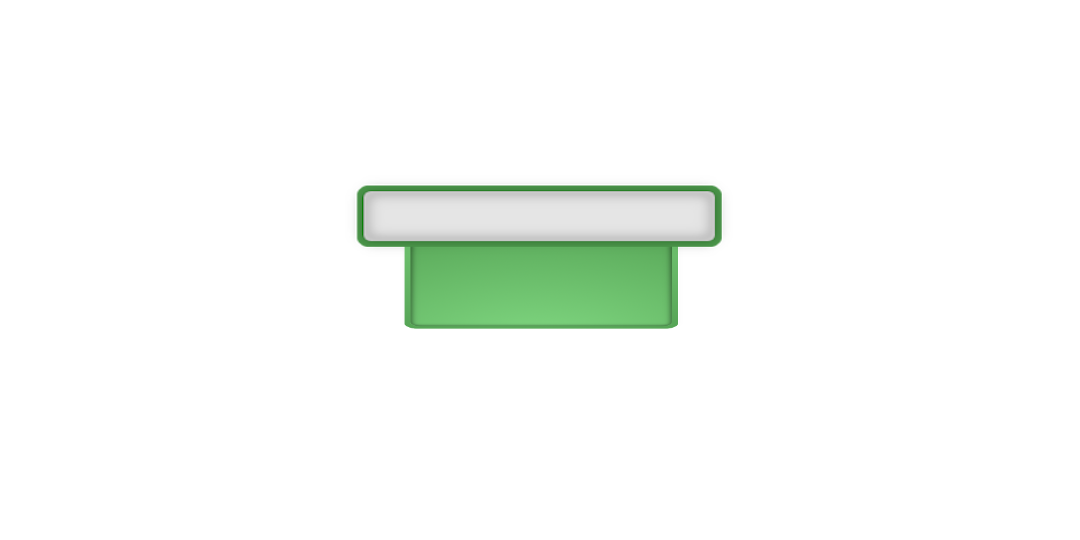
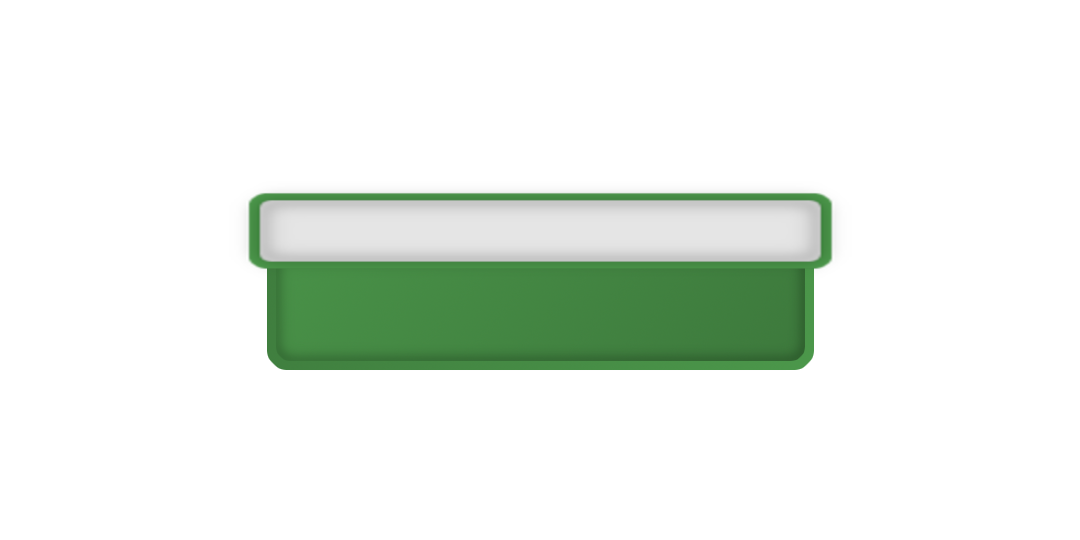
[mainmenu] working on messagebox 1/n

Changed region(s): [[0.2139, 0.3259, 0.7944, 0.7111]]

diff --git a/Client/src/states/mainMenuState.py b/Client/src/states/mainMenuState.py
@@ -10,38 +10,35 @@ class UIAnimState(Enum):
     RegisterPanelSlideIn = 4
     RegisterPanelSlideOut = 5
     RegisterPanelVisible = 6
+    MessageBoxShowed = 7
 
 class MainMenuState(State):
     def __init__(self, context, state_manager):
         super().__init__(context,state_manager)
         self._init_state_content()
         self._init_widgets()
+        self._init_msg_box()
         self.bInputEnabled = False
         self.bLogoAnimEnabled = False
         self.bLogoAnimGoingDown = True
         self.UIAnimState = UIAnimState.LoginPanelSlideIn
 
     def _init_resources(self):
-        self.context.texture_manager.load_resource(TextureID.BackgroundLayer0,
-                                                   "res/img/background_layer0.png", Texture)
-        self.context.texture_manager.load_resource(TextureID.BackgroundLayer1,
-                                                   "res/img/background_layer1.png", Texture)
-        self.context.texture_manager.load_resource(TextureID.LoginPanel,
-                                                   "res/img/login_panel.png", Texture)
-        self.context.texture_manager.load_resource(TextureID.RegisterPanel,
-                                                   "res/img/register_panel.png", Texture)
-        self.context.texture_manager.load_resource(TextureID.Logo,
-                                                   "res/img/logo.png", Texture)
-        self.context.texture_manager.load_resource(TextureID.Clouds,
-                                                   "res/img/clouds.png", Texture)
-        self.context.texture_manager.load_resource(TextureID.ButtonSignIn,
-                                                   "res/img/button_signin.png", Texture)
-        self.context.texture_manager.load_resource(TextureID.ButtonSignUp,
-                                                   "res/img/button_signup.png", Texture)
-        self.context.texture_manager.load_resource(TextureID.ButtonBack,
-                                                   "res/img/button_back.png", Texture)
-        self.context.texture_manager.load_resource(TextureID.ButtonRegister,
-                                                   "res/img/button_register.png", Texture)
+        textures_to_init={
+            TextureID.BackgroundLayer0 : "res/img/background_layer0.png",
+            TextureID.BackgroundLayer1 : "res/img/background_layer1.png",
+            TextureID.LoginPanel : "res/img/login_panel.png",
+            TextureID.RegisterPanel : "res/img/register_panel.png",
+            TextureID.Logo : "res/img/logo.png",
+            TextureID.Clouds : "res/img/clouds.png",
+            TextureID.ButtonSignIn : "res/img/button_signin.png",
+            TextureID.ButtonSignUp : "res/img/button_signup.png",
+            TextureID.ButtonBack : "res/img/button_back.png",
+            TextureID.ButtonRegister : "res/img/button_register.png",
+            TextureID.MessageBox : "res/img/info_panel.png"
+        }
+        for key in textures_to_init:
+            self.context.texture_manager.load_resource(key,textures_to_init[key], Texture)
 
     def _init_widgets(self):
         texture_manager = self.state_manager.context.texture_manager
@@ -91,6 +88,19 @@ class MainMenuState(State):
         # buttons callbacks
         self.widget_manager.get_widget("ButtonBack").set_callback(self._back_onclick)
 
+    def _init_msg_box(self):
+        texture_manager = self.state_manager.context.texture_manager
+        self.msgPanel = Sprite(texture_manager.get_resource(TextureID.MessageBox),
+                               position=Vec2(0,-25),
+                               origin=Origin.TOP_LEFT)
+        self.bMsgPanelActive = False
+
+    def _show_msg_box(self,message, button):
+        pass
+
+    def _hide_msg_box(self):
+        pass
+
     #button onclick handlers
     def _sign_in_onclick(self):
         print("sign_in_")
@@ -121,18 +131,21 @@ class MainMenuState(State):
         self.login_panel_init_pos = self.register_panel_init_pos = self.login_panel.position.y
 
     def _on_render(self) -> None:
+        window = self.context.window
         #background
-        self.backgroundLayer0.draw(self.context.window)
-        self.cloudsPool[0].draw(self.context.window)
-        self.cloudsPool[1].draw(self.context.window)
-        self.backgroundLayer1.draw(self.context.window)
+        self.backgroundLayer0.draw(window)
+        self.cloudsPool[0].draw(window)
+        self.cloudsPool[1].draw(window)
+        self.backgroundLayer1.draw(window)
         #panels
-        self.login_panel.draw(self.context.window)
-        self.register_panel.draw(self.context.window)
+        self.login_panel.draw(window)
+        self.register_panel.draw(window)
         #logo
-        self.logo.draw(self.context.window)
+        self.logo.draw(window)
         #widgets
-        self.widget_manager.draw_widgets(self.context.window)
+        self.widget_manager.draw_widgets(window)
+        #message box
+        self.msgPanel.draw(window)
 
     def _on_event(self, events: List[pygame.event.Event]) -> None:
         if self.UIAnimState == UIAnimState.LoginPanelVisible:

diff --git a/Client/src/core/widgets/widgetManager.py b/Client/src/core/widgets/widgetManager.py
@@ -12,6 +12,11 @@ class WidgetManager:
         self._widgetsHolder.add(widget)
         self._insert_widget(name,widget)
 
+    def remove_widget(self, name: str):
+        widget_to_remove = self._widgetsDict[name]
+        self._widgetsHolder.remove(widget_to_remove)
+        self._widgetsDict.pop(name)
+
     def get_widget(self, name: str) -> Widget:
         assert (name in self._widgetsDict)
         return self._widgetsDict[name]

diff --git a/Client/src/core/resources/resourceManager.py b/Client/src/core/resources/resourceManager.py
@@ -20,6 +20,7 @@ class TextureID(Enum):
     InfoPanel = 12
     RegisterPanel = 13
     ButtonBack = 14
+    MessageBox = 15
 
 class ResourceManager(Generic[ResType]):
     def __init__(self) -> None:
